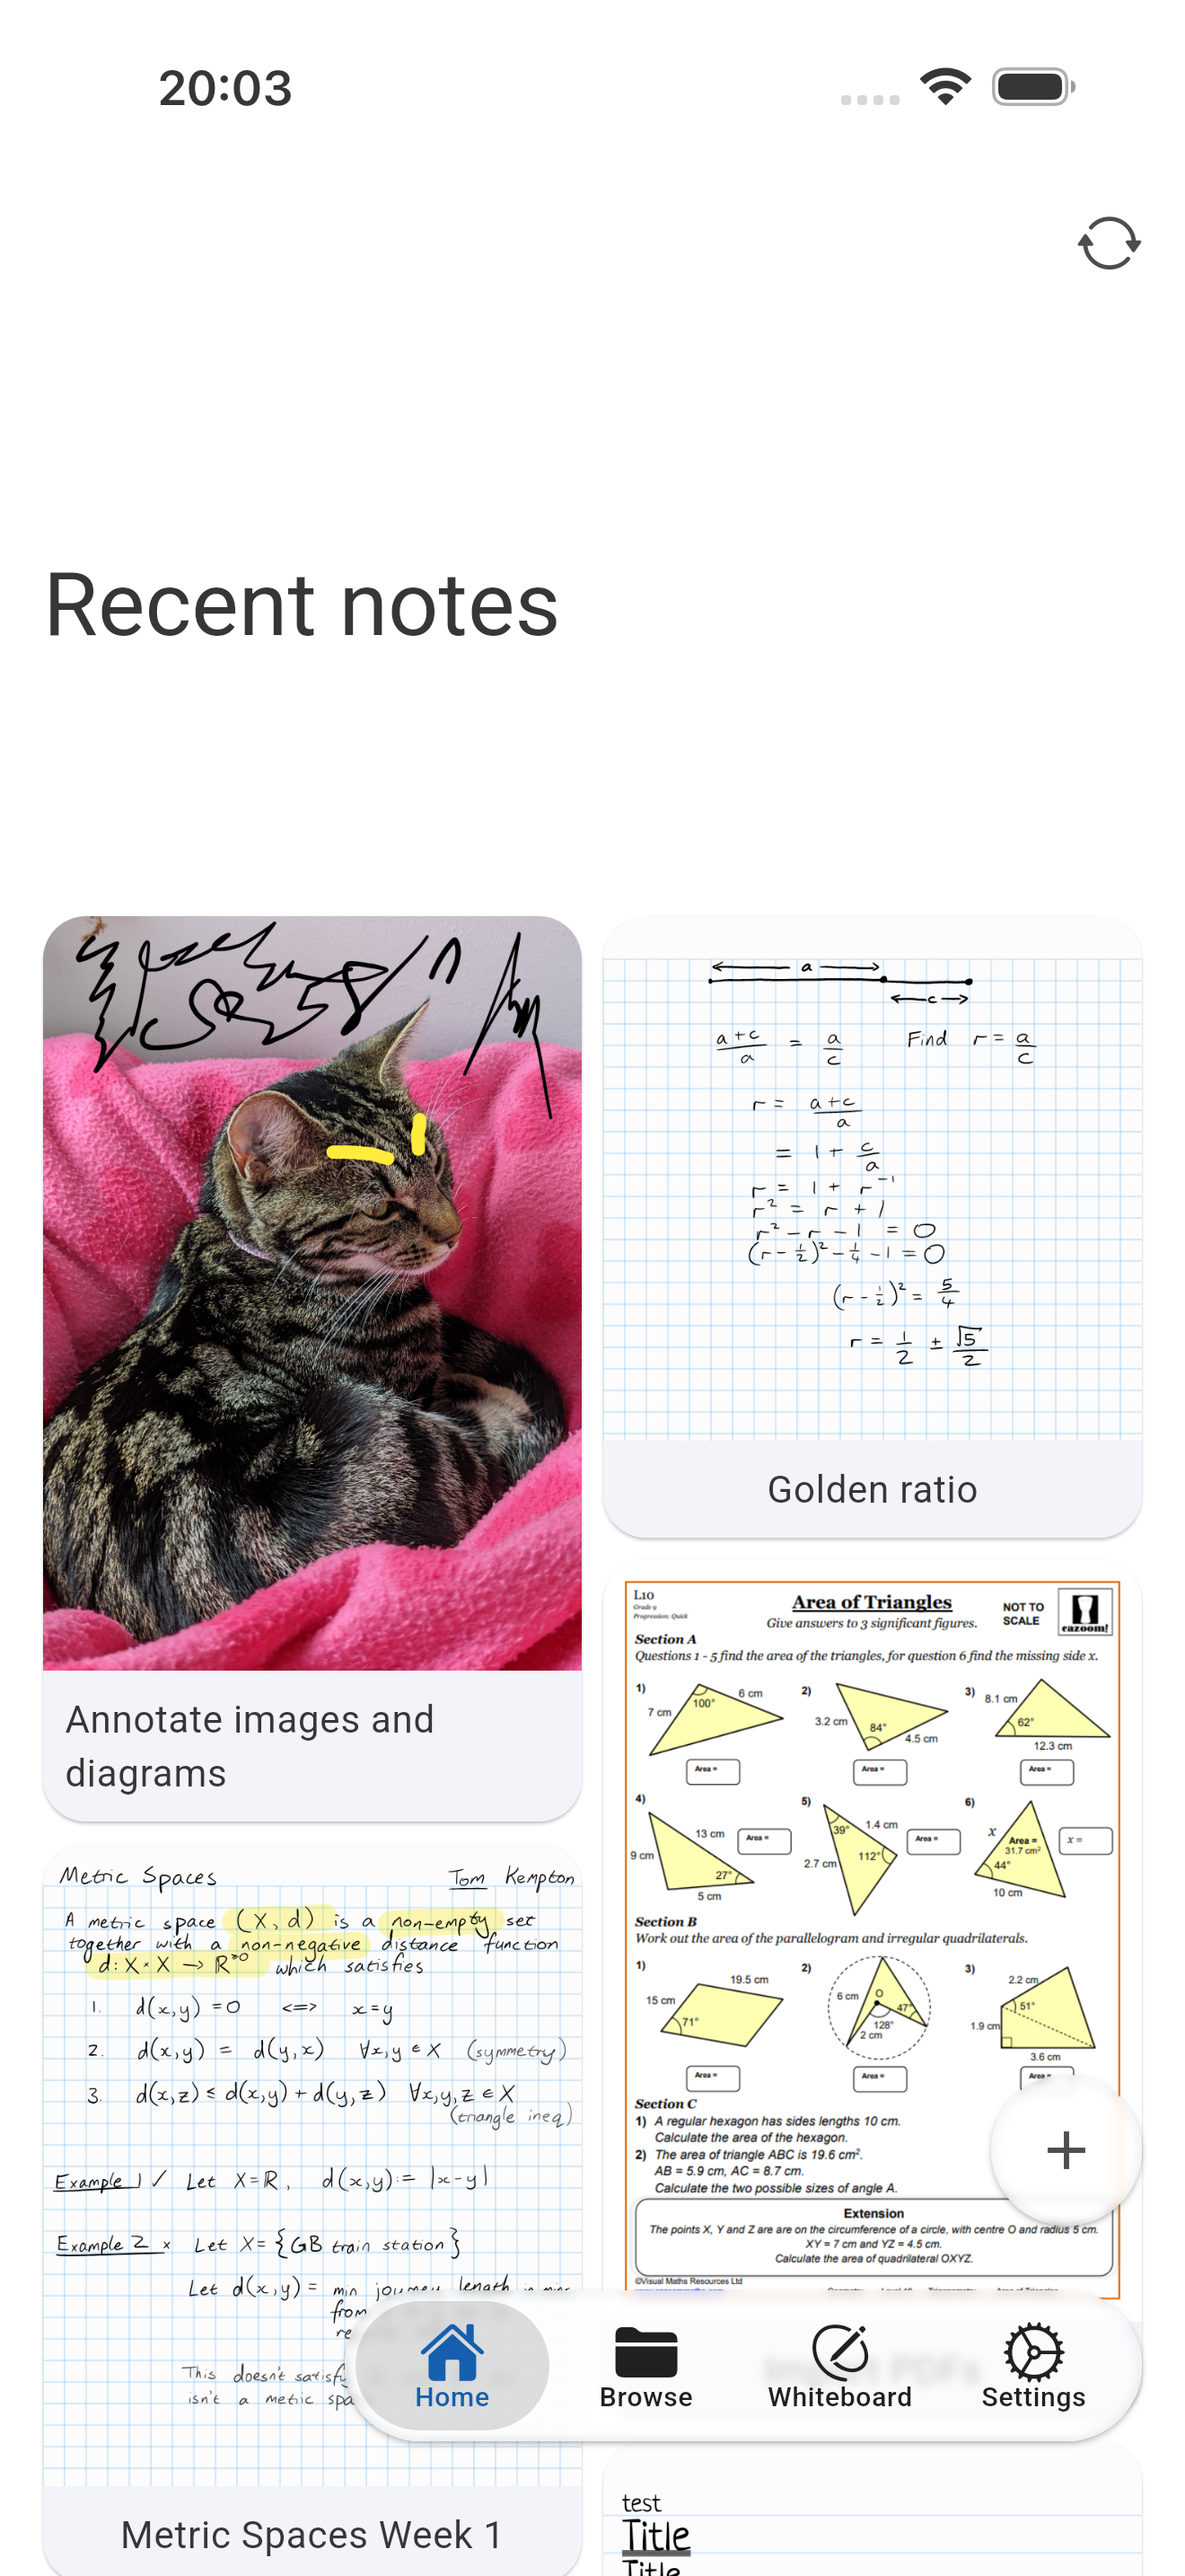
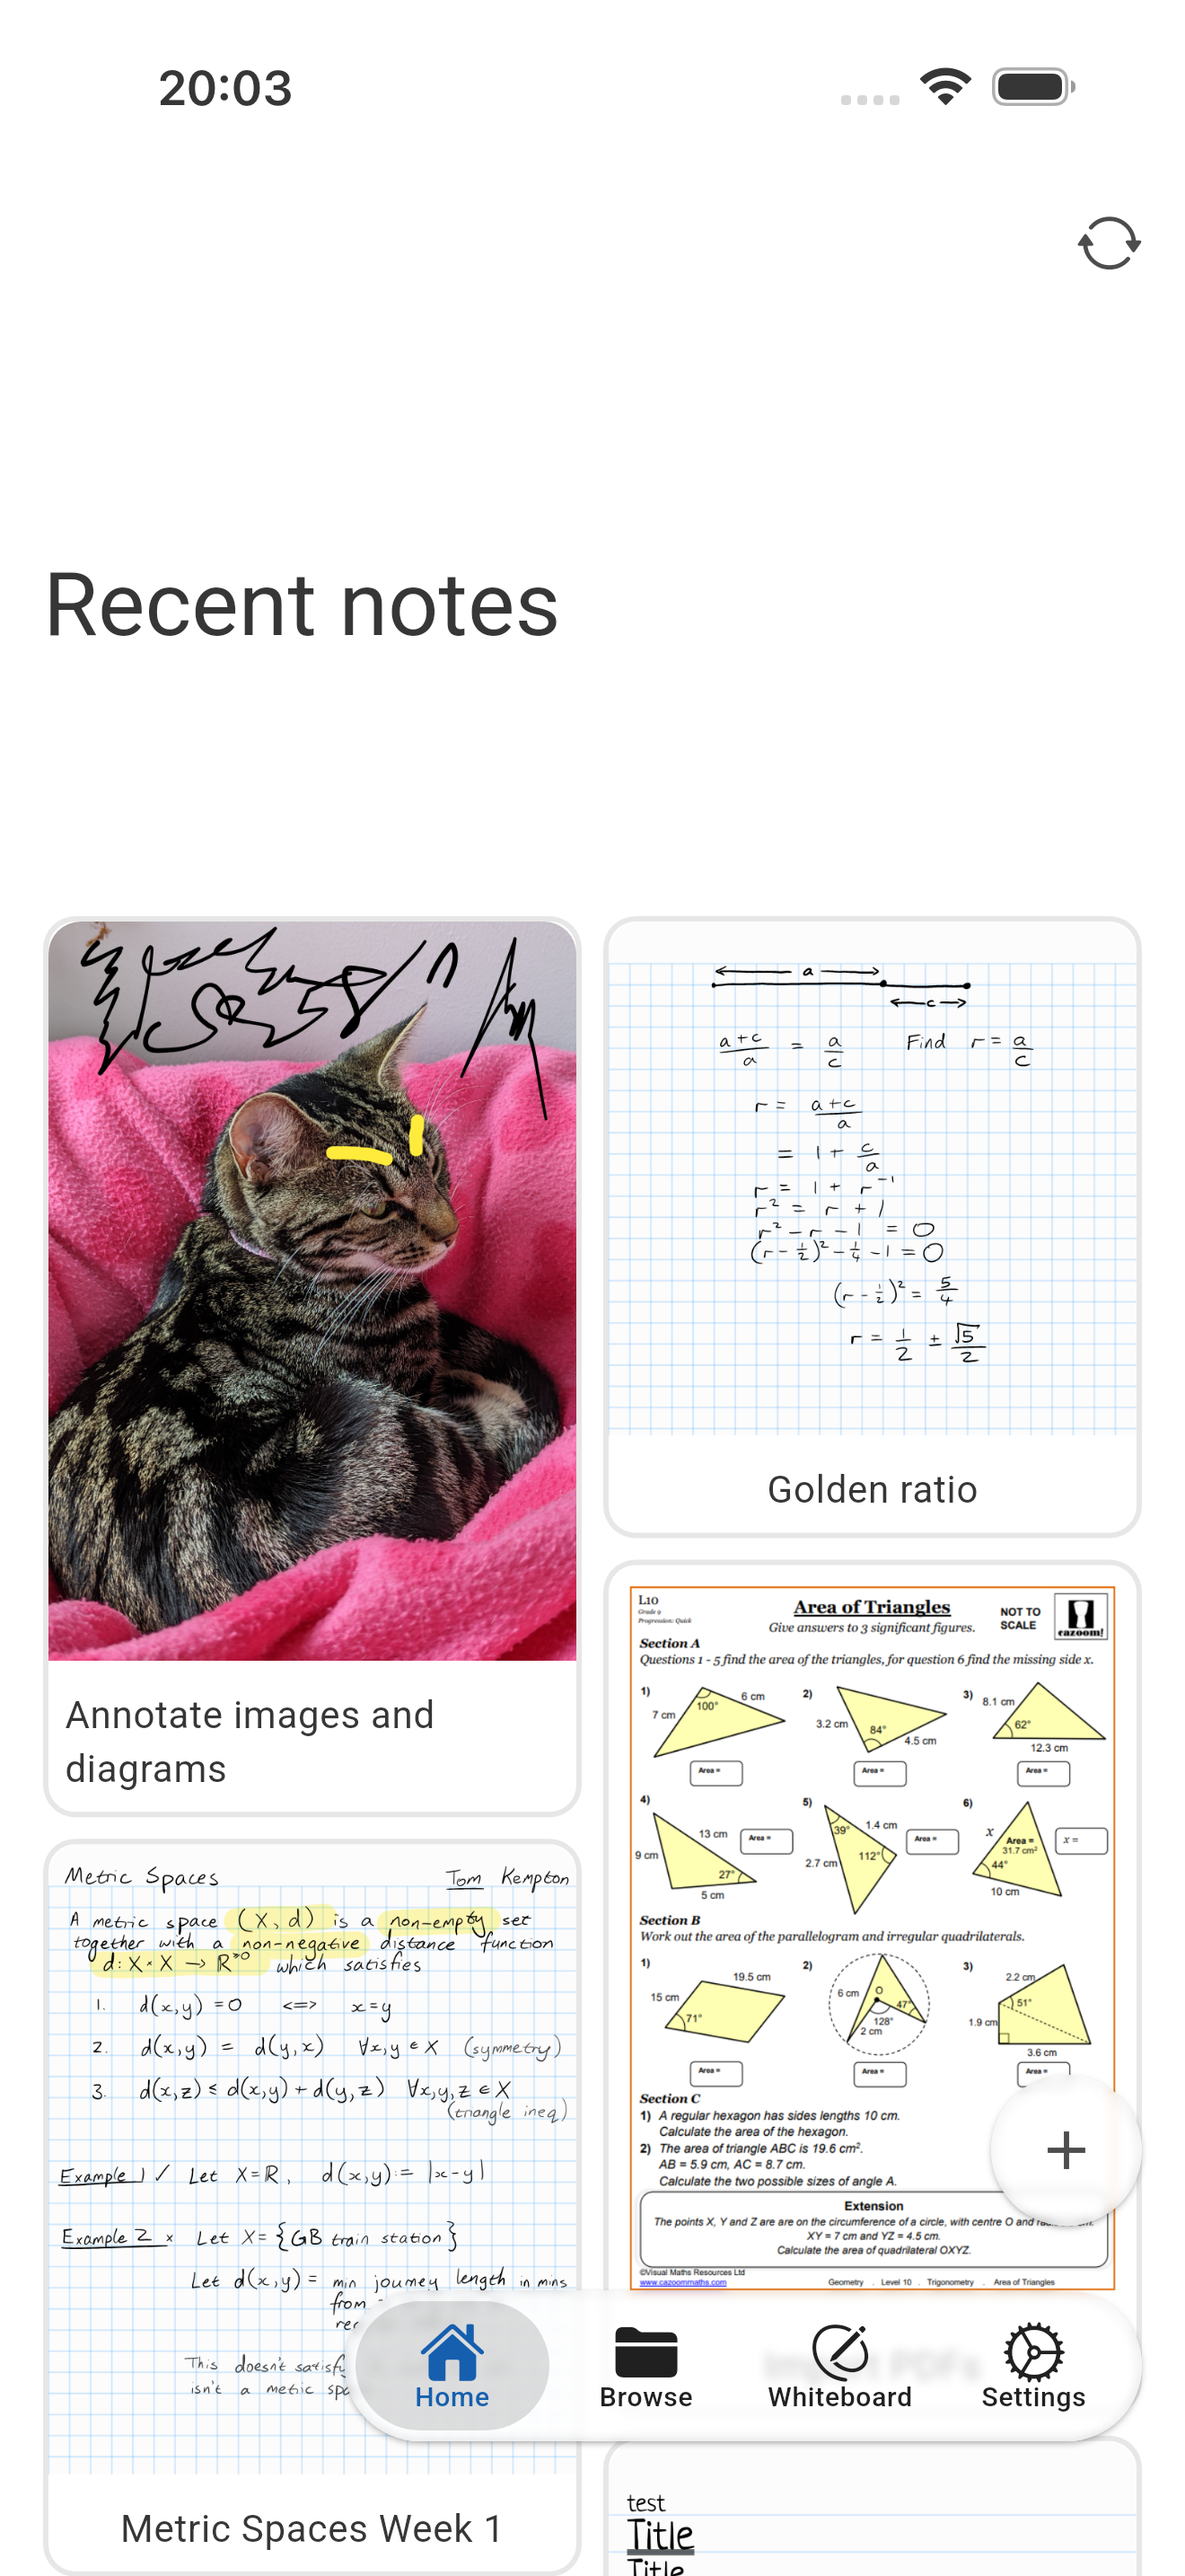
tweak: modernise note cards

Changed region(s): [[0.0311, 0.3414, 0.9629, 0.993], [0.528, 0.5896, 0.9629, 0.8999], [0.528, 0.962, 0.5902, 1.0]]

diff --git a/lib/components/home/preview_card.dart b/lib/components/home/preview_card.dart
@@ -13,6 +13,7 @@ import 'package:saber/data/prefs.dart';
 import 'package:saber/data/routes.dart';
 import 'package:saber/i18n/strings.g.dart';
 import 'package:saber/pages/editor/editor.dart';
+import 'package:yaru/yaru.dart';
 
 class PreviewCard extends StatefulWidget {
   PreviewCard({
@@ -105,89 +106,85 @@ class _PreviewCardState extends State<PreviewCard> {
         onTap: widget.isAnythingSelected ? _toggleCardSelection : null,
         onSecondaryTap: _toggleCardSelection,
         onLongPress: _toggleCardSelection,
-        child: ColoredBox(
-          color: colorScheme.surfaceContainerLow,
-          child: Stack(
-            children: [
-              Column(
-                mainAxisSize: .min,
-                children: [
-                  Stack(
-                    children: [
-                      AnimatedBuilder(
-                        animation: thumbnail,
-                        builder: (context, _) => AnimatedSwitcher(
-                          duration: const Duration(milliseconds: 300),
-                          child: ConstrainedBox(
-                            key: ValueKey(thumbnail.updateCount),
-                            constraints: const BoxConstraints(minHeight: 100),
-                            child: InvertWidget(
-                              invert: invert,
-                              child: thumbnail.doesImageExist
-                                  ? Image(image: thumbnail.image!)
-                                  : const _FallbackThumbnail(),
-                            ),
+        child: Column(
+          mainAxisSize: .min,
+          children: [
+            Stack(
+              children: [
+                ListenableBuilder(
+                  listenable: thumbnail,
+                  builder: (context, _) => AnimatedSwitcher(
+                    duration: const Duration(milliseconds: 300),
+                    child: ConstrainedBox(
+                      key: ValueKey(thumbnail.updateCount),
+                      constraints: const BoxConstraints(minHeight: 100),
+                      child: Padding(
+                        padding: const EdgeInsets.all(kYaruFocusBorderWidth),
+                        child: ClipRRect(
+                          borderRadius: const .only(
+                            topLeft: .circular(kYaruContainerRadius),
+                            topRight: .circular(kYaruContainerRadius),
+                          ),
+                          child: InvertWidget(
+                            invert: invert,
+                            child: thumbnail.doesImageExist
+                                ? Image(image: thumbnail.image!)
+                                : const _FallbackThumbnail(),
                           ),
                         ),
-                      ),
-                      Positioned.fill(
-                        left: -1,
-                        top: -1,
-                        right: -1,
-                        bottom: -1,
-                        child: ValueListenableBuilder(
-                          valueListenable: expanded,
-                          builder: (context, expanded, child) =>
-                              AnimatedOpacity(
-                                opacity: expanded ? 1 : 0,
-                                duration: const Duration(milliseconds: 200),
-                                child: IgnorePointer(
-                                  ignoring: !expanded,
-                                  child: child!,
-                                ),
-                              ),
-                          child: GestureDetector(
-                            onTap: _toggleCardSelection,
-                            child: DecoratedBox(
-                              decoration: BoxDecoration(
-                                gradient: LinearGradient(
-                                  begin: .topCenter,
-                                  end: .bottomCenter,
-                                  colors: [
-                                    colorScheme.surface.withValues(alpha: 0.2),
-                                    colorScheme.surface.withValues(alpha: 0.8),
-                                    colorScheme.surface.withValues(alpha: 1),
-                                  ],
-                                ),
-                              ),
-                              child: ColoredBox(
-                                color: colorScheme.primary.withValues(
-                                  alpha: 0.05,
-                                ),
-                              ),
-                            ),
-                          ),
-                        ),
-                      ),
-                    ],
-                  ),
-                  Flexible(
-                    child: Padding(
-                      padding: const .all(8),
-                      child: Text(
-                        widget.filePath.substring(
-                          widget.filePath.lastIndexOf('/') + 1,
-                        ),
-                        maxLines: 2,
-                        overflow: .ellipsis,
                       ),
                     ),
                   ),
-                ],
+                ),
+                Positioned.fill(
+                  left: -1,
+                  top: -1,
+                  right: -1,
+                  bottom: -1,
+                  child: ValueListenableBuilder(
+                    valueListenable: expanded,
+                    builder: (context, expanded, child) => AnimatedOpacity(
+                      opacity: expanded ? 1 : 0,
+                      duration: const Duration(milliseconds: 200),
+                      child: IgnorePointer(ignoring: !expanded, child: child!),
+                    ),
+                    child: GestureDetector(
+                      onTap: _toggleCardSelection,
+                      child: DecoratedBox(
+                        decoration: BoxDecoration(
+                          gradient: LinearGradient(
+                            begin: .topCenter,
+                            end: .bottomCenter,
+                            colors: [
+                              colorScheme.surface.withValues(alpha: 0.2),
+                              colorScheme.surface.withValues(alpha: 0.8),
+                              colorScheme.surface.withValues(alpha: 1),
+                            ],
+                          ),
+                        ),
+                        child: ColoredBox(
+                          color: colorScheme.primary.withValues(alpha: 0.05),
+                        ),
+                      ),
+                    ),
+                  ),
+                ),
+                SyncIndicator(filePath: widget.filePath),
+              ],
+            ),
+            Flexible(
+              child: Padding(
+                padding: const .all(8),
+                child: Text(
+                  widget.filePath.substring(
+                    widget.filePath.lastIndexOf('/') + 1,
+                  ),
+                  maxLines: 2,
+                  overflow: .ellipsis,
+                ),
               ),
-              SyncIndicator(filePath: widget.filePath),
-            ],
-          ),
+            ),
+          ],
         ),
       ),
     );
@@ -196,9 +193,18 @@ class _PreviewCardState extends State<PreviewCard> {
       valueListenable: expanded,
       builder: (context, expanded, _) {
         return OpenContainer(
+          clipBehavior: Clip.none,
           closedColor: colorScheme.surface,
-          closedShape: RoundedRectangleBorder(borderRadius: .circular(16)),
-          closedElevation: expanded ? 4 : 1,
+          closedShape: RoundedRectangleBorder(
+            side: BorderSide(
+              color: expanded
+                  ? colorScheme.primary
+                  : colorScheme.onSurface.withValues(alpha: 0.12),
+              width: kYaruFocusBorderWidth,
+            ),
+            borderRadius: .circular(kYaruContainerRadius),
+          ),
+          closedElevation: 0,
           closedBuilder: (context, action) => card,
           openColor: colorScheme.surface,
           openBuilder: (context, action) => Editor(path: widget.filePath),

diff --git a/test/browse_page_test.dart b/test/browse_page_test.dart
@@ -1,6 +1,7 @@
 import 'package:flutter/material.dart';
 import 'package:flutter_test/flutter_test.dart';
 import 'package:golden_screenshot/golden_screenshot.dart';
+import 'package:saber/components/theming/saber_theme.dart';
 import 'package:saber/data/file_manager/file_manager.dart';
 import 'package:saber/data/flavor_config.dart';
 import 'package:saber/pages/home/browse.dart';
@@ -66,6 +67,11 @@ class _BrowseApp extends StatelessWidget {
     return ScreenshotApp.withConditionalTitlebar(
       device: GoldenSmallDevices.androidPhone.device,
       title: 'Saber',
+      theme: SaberTheme.createThemeFromSeed(
+        Colors.yellow,
+        Brightness.light,
+        TargetPlatform.android,
+      ),
       home: BrowsePage(path: path),
     );
   }

diff --git a/lib/components/theming/saber_theme.dart b/lib/components/theming/saber_theme.dart
@@ -33,6 +33,20 @@ abstract class SaberTheme {
         year2023: false,
         stopIndicatorColor: Colors.transparent,
       ),
+      cardColor: colorScheme.surface,
+      cardTheme: CardThemeData(
+        elevation: 0,
+        color: colorScheme.surface,
+        surfaceTintColor: Colors.transparent,
+        shadowColor: Colors.transparent,
+        shape: RoundedRectangleBorder(
+          borderRadius: .circular(kYaruContainerRadius),
+          side: BorderSide(
+            color: colorScheme.onSurface.withValues(alpha: 0.12),
+            width: 2,
+          ),
+        ),
+      ),
       cupertinoOverrideTheme: const NoDefaultCupertinoThemeData(
         applyThemeToAll: true,
       ),

diff --git a/lib/components/home/grid_folders.dart b/lib/components/home/grid_folders.dart
@@ -136,7 +136,6 @@ class _GridFolderState extends State<_GridFolder> {
             ? () => expanded.value = !expanded.value
             : null,
         child: Card(
-          color: colorScheme.surface,
           child: Padding(
             padding: const .all(8),
             child: Column(
